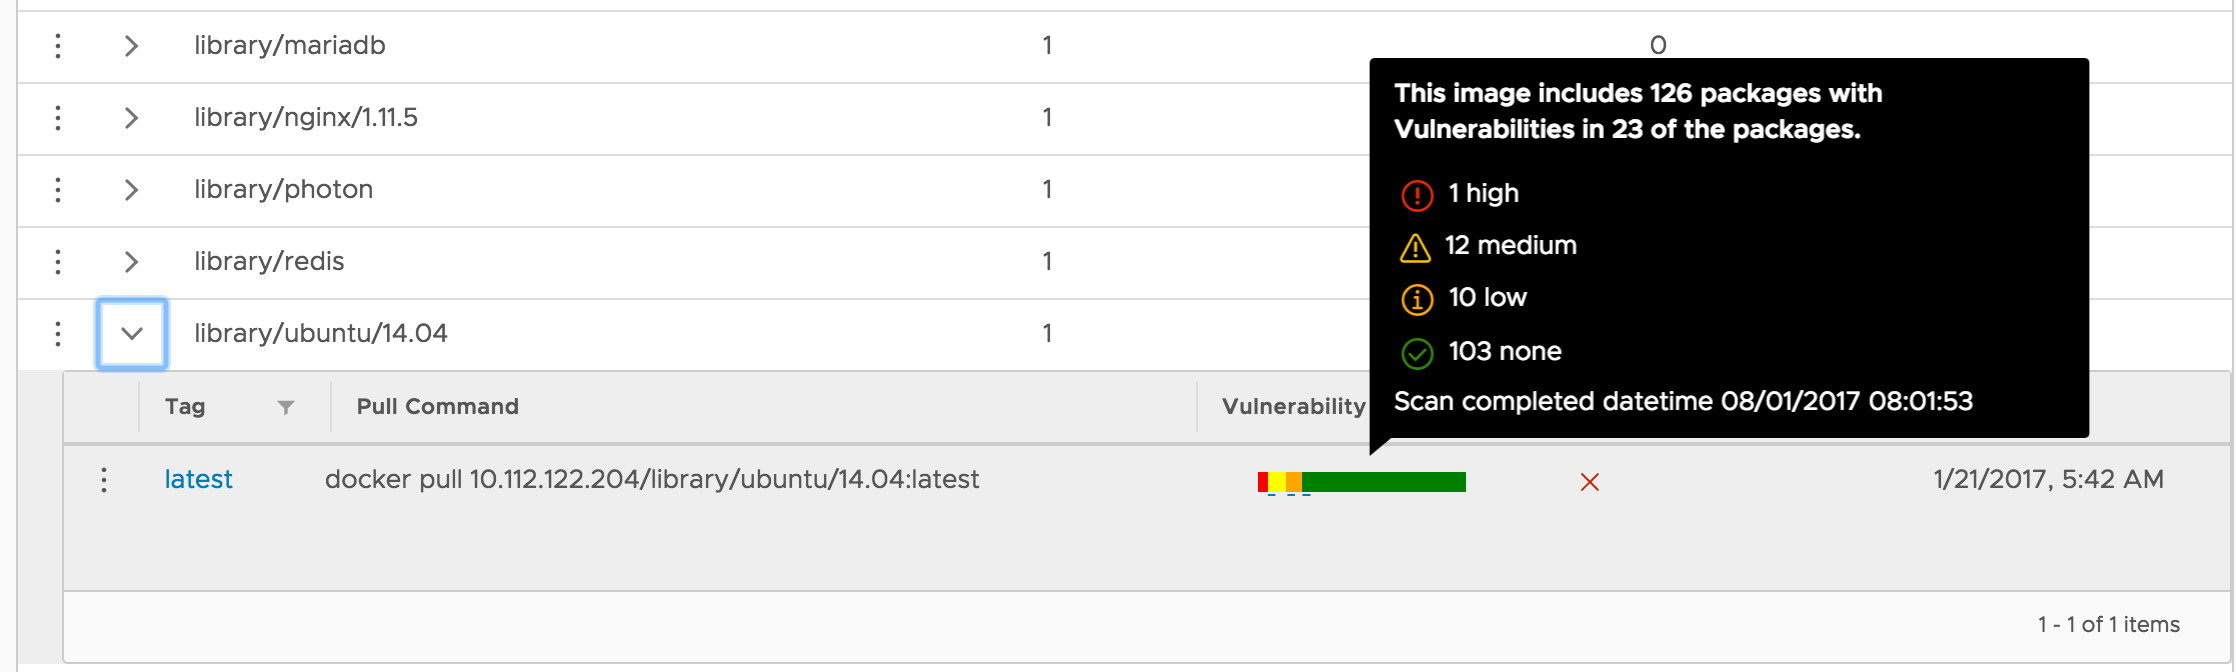
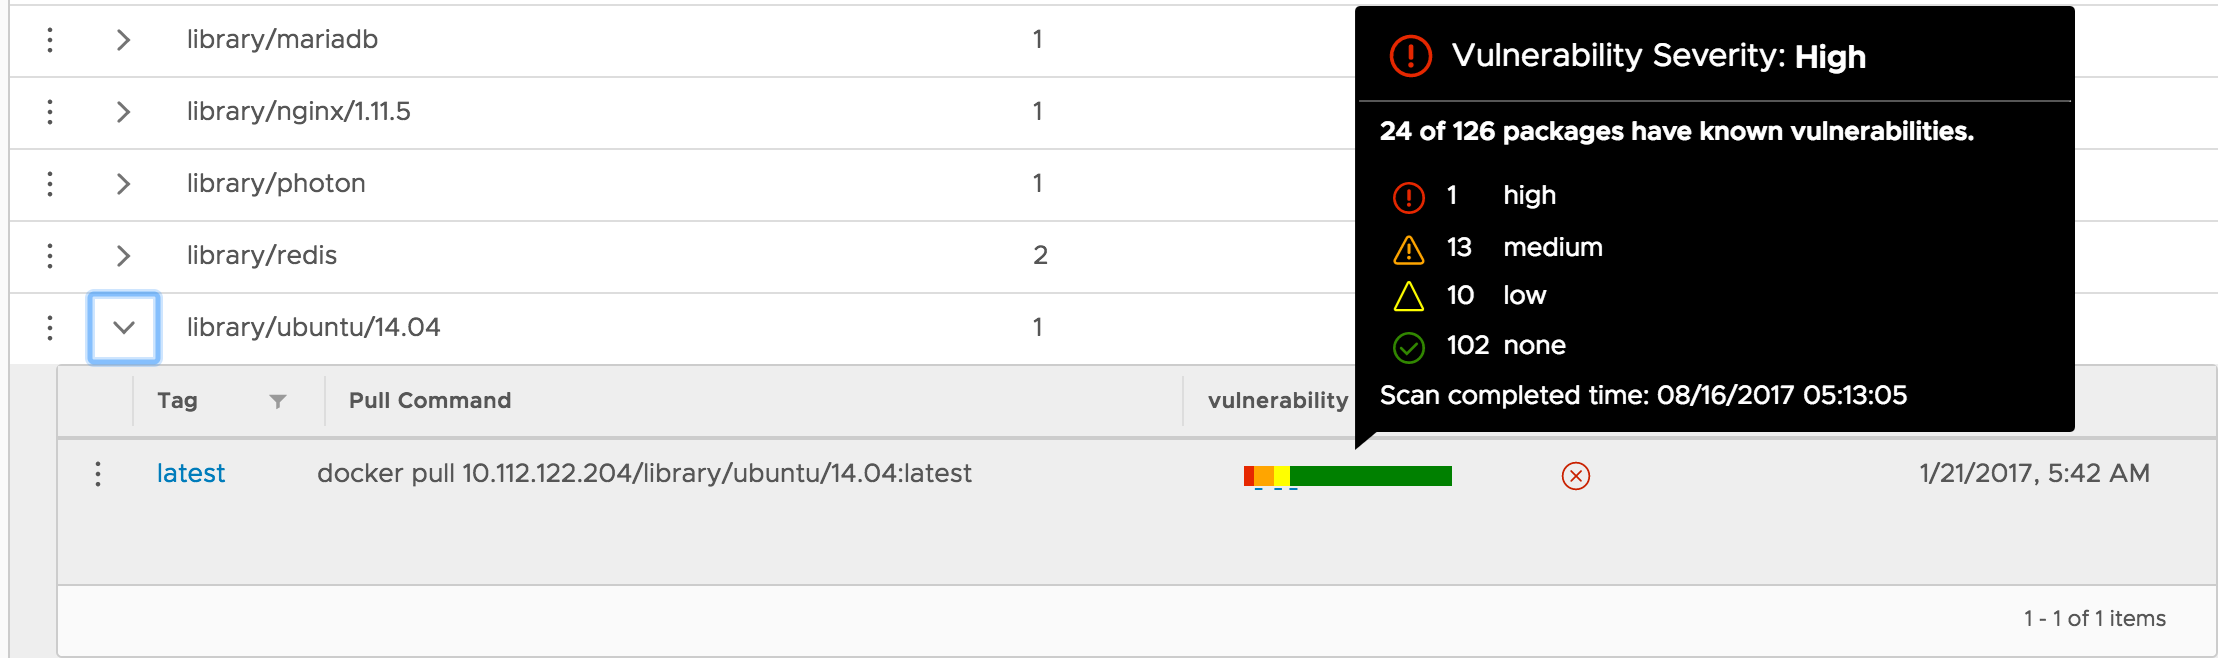
recapture screenshots for vul scanning and content trust

diff --git a/docs/user_guide.md b/docs/user_guide.md
@@ -264,7 +264,7 @@ Clair depends on the vulnerability metadata to complete the analysis process. Af
 The 'database not fully ready' warning message is also displayed in the **'Vulnerability'** tab of **'Configuration'** section under **'Administration'** for your awareness.
 ![browse project](img/clair_not_ready2.png)
 
-Once the database is ready, an overall database updated timestamp will be shown in the **'Vulnerability'** tab of **'Configuration'** section under **'Administration'**. Click on the timestamp drop-down list, the timestamps of different namespaces are listed.
+Once the database is ready, an overall database updated timestamp will be shown in the **'Vulnerability'** tab of **'Configuration'** section under **'Administration'**. 
 ![browse project](img/clair_ready.png)
 
 **Scanning an image** 
